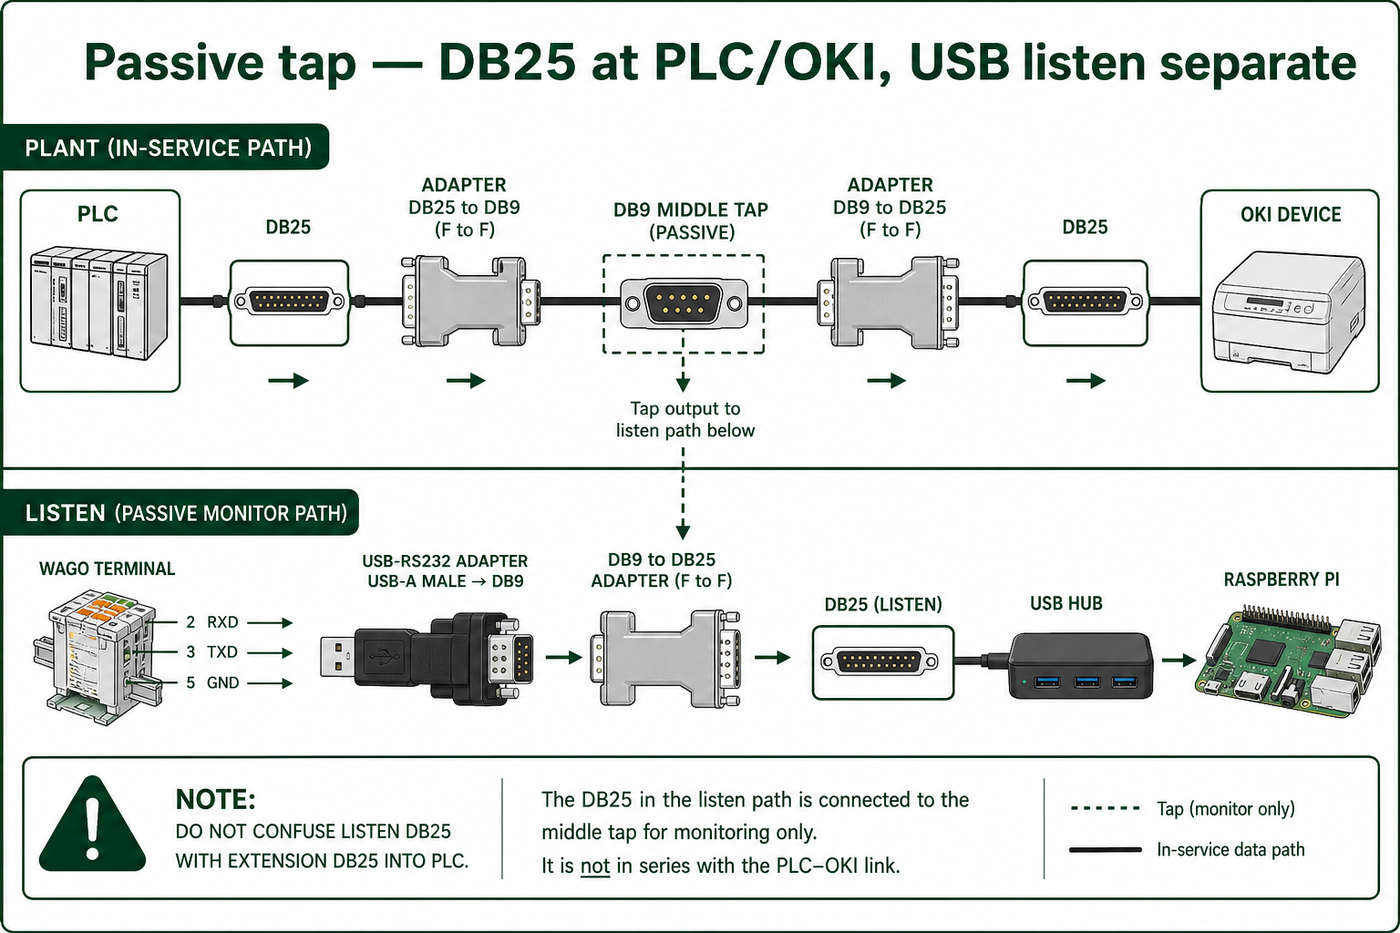
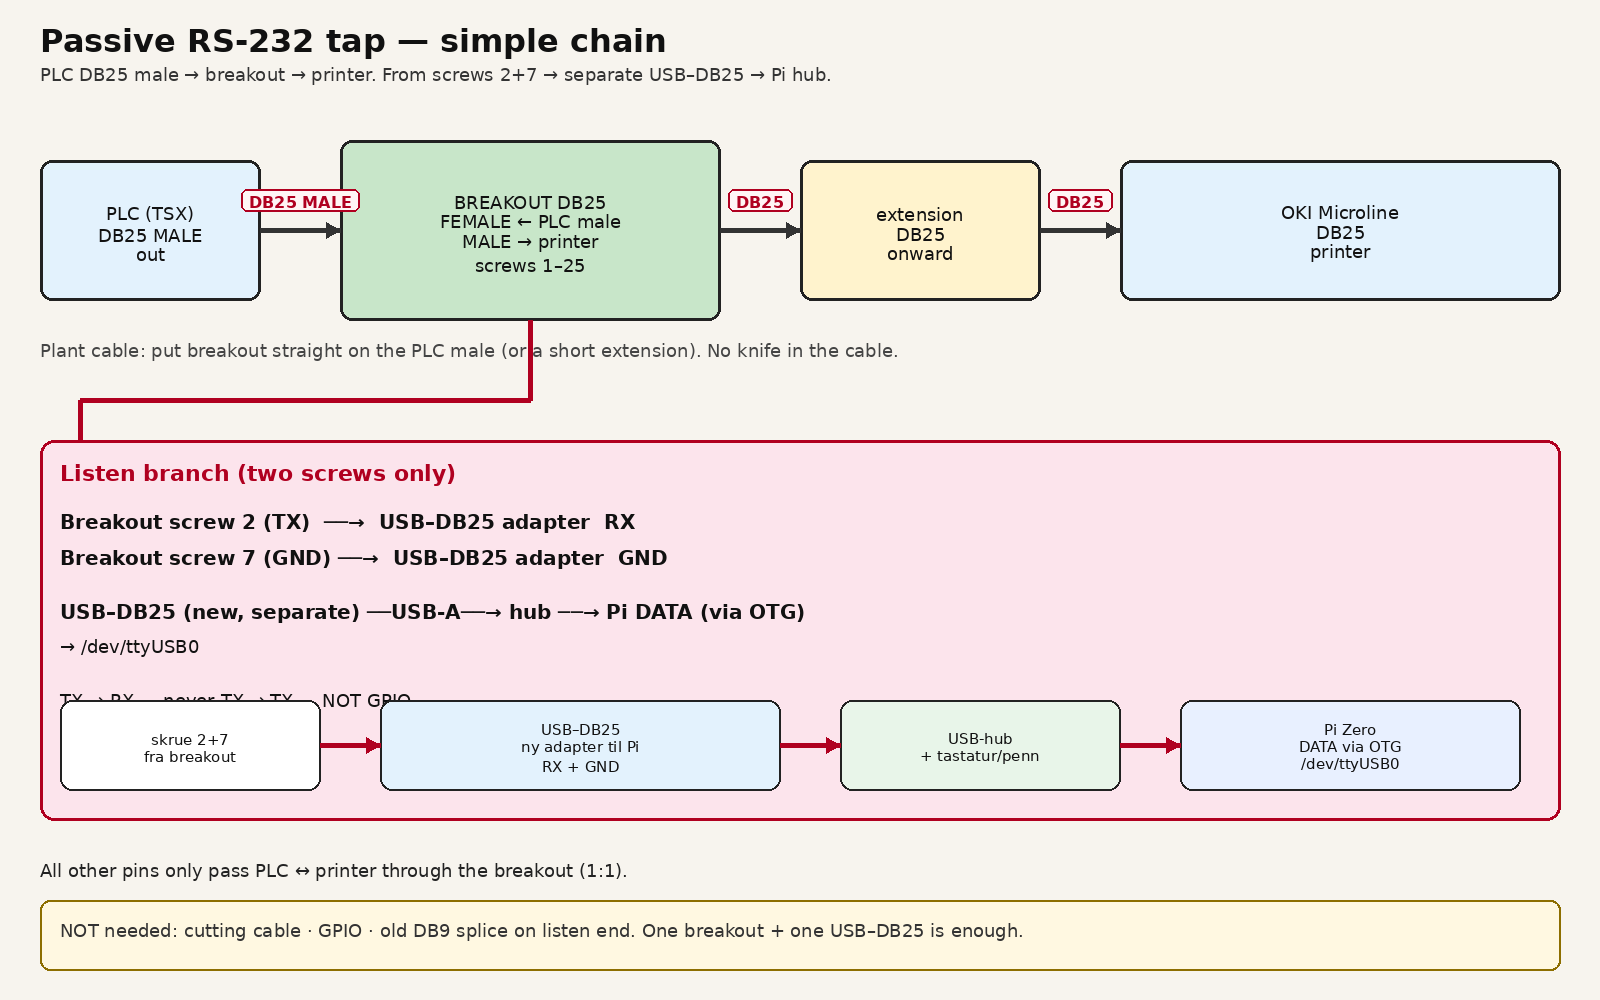
Forenkle tapp-diagram: PLS hann → breakout → skriver + USB–DB25
Ny oversikt uten DB9-rot: skrue 2+7 til egen USB–DB25 på huben.

diff --git a/docs/en/wiring.md b/docs/en/wiring.md
@@ -1,87 +1,53 @@
 # Wiring
 
-<img src="img/tap-recommended-breakout.png" width="100%" alt="Recommended tap with DB25 breakout — no cutting"/>
+<img src="img/passive-rs232-tap.png" width="100%" alt="PLC DB25 male → breakout → printer; screws 2+7 → USB–DB25 → Pi"/>
 
-<img src="img/tap-step-by-step.png" width="100%" alt="Step-by-step: method A breakout / method B WAGO"/>
+## Simple chain (recommended)
 
-## Recommendation: buy a breakout — don’t cut
+1. **PLC DB25 male** plugs straight into the **breakout** (female side).
+2. From breakout **male** → extension → **OKI**.
+3. From breakout **screw 2 (TX)** and **screw 7 (GND)** → new **USB–DB25** adapter (**RX** + **GND**).
+4. USB–DB25 → **USB hub** → Pi DATA (via OTG).
 
-| | Method A (recommended) | Method B (works) |
-|--|------------------------|------------------|
-| Part | **DB25 male↔female breakout** with screw terminals | Short sacrificial extension + **WAGO 221** |
-| Work | Insert board inline | Slit jacket, cut only TX+GND |
-| Reversible | Yes — unplug the board | Messier |
-| Find TX/GND | Labeled **pin 2** and **pin 7** on the board | Continuity test (colors lie) |
-| Search | `DB25 male female breakout screw terminal` | — |
+No cutting. Not GPIO. Signal → `/dev/ttyUSB0`.
 
-Buy two breakouts if you can (one live, one spare). Cheap AliExpress/Amazon units are fine in a cabinet; DIN-rail (e.g. Winford) if you want tougher hardware.
-
-**Not** GPIO. **Not** parallel/Centronics (STROBE/D0…). **Not** a 40-pin LCD HAT. Signal goes to `/dev/ttyUSB0` via USB–RS232.
-
-## What you have
-
-| Part | Connector |
-|------|-----------|
-| PLC and OKI | **DB25** |
-| Extension (middle) | Often a **DB9** cable with **DB25 adapters** on each end |
-| Pi OTG extension | micro-USB **male** into Pi DATA → USB-A **female** out |
-| USB hub | its USB-A **male** cable into the OTG female |
-| StarTech / DB9 cable | USB-A **male** into hub → DB9 **male** + **DB9→DB25 adapter** → DB25 **male** |
-
-| Signal | DB25 (PLC/OKI / breakout) | DB9 (if middle section) |
-|--------|---------------------------|-------------------------|
-| TX (data PLC→printer) | **2** | **3** |
-| GND | **7** | **5** |
-
-## Method A — breakout (recommended)
-
-1. Insert a **DB25 M↔F breakout** between PLC cable and OKI (or mid short sacrificial extension). Original cable untouched.
-2. All pins pass through 1:1.
-3. From **screw 2 (TX)** → wire to listen adapter **RX**.
-4. From **screw 7 (GND)** → wire to listen adapter **GND**.
-5. Secure in cable tray. Label ACTIVE.
-
-## Method B — WAGO (if you won’t order)
-
-**Wire colors — do not trust them.** Continuity from DB25 pins **2** and **7**.
-
-1. Insert a short **sacrificial extension**. Never cut the original PLC→OKI cable.
-2. Slit the jacket mid-extension — **do not cut the whole cable through**.
-3. Cut **only** TX + GND. Three ends in each WAGO 221: PLC | OKI | Pi branch.
-4. Pi branch: TX → RX, GND → GND.
-
-```
-PLC side ──┐
-           ├── WAGO ── printer side
-Pi branch ─┘
-```
-
-## USB–RS232 (separate branch)
-
-<img src="img/usb-chain-complete.png" width="100%" alt="USB chain with correct genders"/>
-
-```text
-Pi DATA ── micro-USB MALE ── OTG extension ── USB-A FEMALE
-                                                    ↑
-                              hub USB-A MALE ───────┘
-                                    │
-                         ├── keyboard
-                         ├── flash → /media/usb0
-                         └── StarTech / DB9 cable:
-                               USB-A MALE into hub
-                               → DB9 MALE
-                               → DB9→DB25 adapter
-                               → DB25 MALE → breakout/WAGO listen
-                               → /dev/ttyUSB0
-```
-
-| From tap (breakout/WAGO) | To StarTech (serial end) |
-|--------------------------|--------------------------|
-| TX (DB25 pin 2) | **RX** |
-| GND (DB25 pin 7) | **GND** |
+| From breakout | To USB–DB25 |
+|---------------|-------------|
+| Screw **2** (TX) | **RX** |
+| Screw **7** (GND) | **GND** |
 
 TX → RX — never TX to TX.
 
-Older overview (WAGO-focused): [passive-rs232-tap.png](img/passive-rs232-tap.png)
+## Parts
+
+| Part | Role |
+|------|------|
+| **DB25 M↔F breakout** w/ screws | Pass-through PLC↔printer + tap point |
+| **USB–DB25** (new, for Pi) | RS-232 levels → USB on the hub |
+| DB25 extension | Breakout → OKI |
+| Pi OTG | micro-USB **male** → USB-A **female** |
+| USB hub | male into OTG; keyboard + stick + USB–DB25 |
+
+If you already have StarTech ICUSB232DB25 (DB9 + DB25 adapter), it fills the USB–DB25 role.
+
+## USB to Pi
+
+<img src="img/usb-chain-complete.png" width="100%" alt="USB chain"/>
+
+```text
+Pi DATA ── OTG (USB-A FEMALE) ← hub (USB-A MALE)
+                              ├── keyboard
+                              ├── flash → /media/usb0
+                              └── USB–DB25 → /dev/ttyUSB0
+                                    ↑
+                         breakout screws 2+7 (TX→RX, GND)
+```
+
+PWR IN (corner): 5V / ≥2.5 A. Not the DATA port.
+
+## More detail
+
+- Steps A/B (breakout vs WAGO): [tap-step-by-step.png](img/tap-step-by-step.png)
+- Breakout focus: [tap-recommended-breakout.png](img/tap-recommended-breakout.png)
 
 *Norwegian: [docs/no/wiring.md](../no/wiring.md)*

diff --git a/docs/no/wiring.md b/docs/no/wiring.md
@@ -1,87 +1,53 @@
 # Kobling
 
-<img src="img/tapp-anbefalt-breakout.png" width="100%" alt="Anbefalt tapp med DB25 breakout — uten å klippe"/>
+<img src="img/passiv-rs232-tapp.png" width="100%" alt="PLS DB25 hann → breakout → skriver; skrue 2+7 → USB–DB25 → Pi"/>
 
-<img src="img/tapp-steg-for-steg.png" width="100%" alt="Steg-for-steg: metode A breakout / metode B WAGO"/>
+## Enkel kjede (anbefalt)
 
-## Anbefaling: kjøp breakout — ikke klipp
+1. **PLS DB25 hann** går rett inn i **breakout** (hunn-siden).
+2. Fra breakout **hann** → skjøtekabel → **OKI**.
+3. Fra breakout **skrue 2 (TX)** og **skrue 7 (GND)** → ny **USB–DB25**-adapter (**RX** + **GND**).
+4. USB–DB25 → **USB-hub** → Pi DATA (via OTG-skjøtekabel).
 
-| | Metode A (anbefalt) | Metode B (fungerer) |
-|--|---------------------|---------------------|
-| Del | **DB25 hann↔hunn breakout** med skrueterminaler | Kort offer-skjøt + **WAGO 221** |
-| Inngrep | Sett boardet inn i skjøten | Åpne kappe, klipp kun TX+GND |
-| Reversibelt | Ja — trekk ut boardet | Mindre pent |
-| Finn TX/GND | Merkt **pin 2** og **pin 7** på boardet | Pipetest (farger lyver) |
-| Søk | `DB25 male female breakout screw terminal` | — |
+Ingen kniv i kabel. Ikke GPIO. Signal → `/dev/ttyUSB0`.
 
-Kjøp gjerne to breakouts (én i drift, én reservedel). Billige AliExpress/Amazon-varianter holder i skap; DIN-rail (f.eks. Winford) hvis du vil ha mer industrielt.
-
-**Ikke** GPIO. **Ikke** parallellport (STROBE/D0…). **Ikke** 40-pinners LCD-HAT. Signal går til `/dev/ttyUSB0` via USB–RS232.
-
-## Hva du har
-
-| Del | Kontakt |
-|-----|---------|
-| PLS og OKI | **DB25** |
-| Skjøtekabel (midt) | Ofte **DB9**-kabel med **DB25-adapter** i hver ende |
-| Pi OTG-skjøtekabel | micro-USB **hann** inn i Pi DATA → USB-A **hunn** ute |
-| USB-hub | egen USB-A **hann**-kabel inn i OTG-hunnen |
-| StarTech / DB9-kabel | USB-A **hann** inn i hubben → DB9 **hann** + **DB9→DB25-adapter** → DB25 **hann** |
-
-| Signal | DB25 (PLS/OKI / breakout) | DB9 (hvis midtseksjon) |
-|--------|---------------------------|------------------------|
-| TX (data PLS→skriver) | **2** | **3** |
-| GND | **7** | **5** |
-
-## Metode A — breakout (anbefalt)
-
-1. Sett **DB25 M↔F breakout** inn mellom PLS-kabel og OKI (eller midt i kort offer-skjøt). Originalkabel urørt.
-2. Alle pinner går 1:1 gjennom boardet.
-3. Fra **skrue 2 (TX)** → ledning til lytteadapterens **RX**.
-4. Fra **skrue 7 (GND)** → ledning til lytteadapterens **GND**.
-5. Fest i kabelrenne. Merk «AKTIV».
-
-## Metode B — WAGO (hvis du ikke bestiller)
-
-**Farger — ikke stol på dem.** Pipetest fra DB25-pinne **2** og **7**.
-
-1. Sett inn kort **offer-skjøt**. Original PLS→OKI røres aldri.
-2. Åpne kappen midt på skjøten — **klipp ikke hele kabelen over**.
-3. Klipp **kun** TX + GND. Tre ender i hver WAGO 221: PLS | OKI | Pi-gren.
-4. Pi-gren: TX → RX, GND → GND.
-
-```
-PLS-side ──┐
-           ├── WAGO ── skriver-side
-Pi-gren ───┘
-```
-
-## USB–RS232 (egen grein)
-
-<img src="img/usb-kjede-komplett.png" width="100%" alt="USB-kjede med riktige kjønn"/>
-
-```text
-Pi DATA ── micro-USB HANN ── OTG-skjøtekabel ── USB-A HUNN
-                                                    ↑
-                              hubens USB-A HANN ────┘
-                                    │
-                         ├── tastatur
-                         ├── USB-pinne → /media/usb0
-                         └── StarTech / DB9-kabel:
-                               USB-A HANN inn i hub
-                               → DB9 HANN
-                               → DB9→DB25-adapter
-                               → DB25 HANN → breakout/WAGO-lytting
-                               → /dev/ttyUSB0
-```
-
-| Fra tapp (breakout/WAGO) | Til StarTech (serie-ende) |
-|--------------------------|---------------------------|
-| TX (DB25 pin 2) | **RX** |
-| GND (DB25 pin 7) | **GND** |
+| Fra breakout | Til USB–DB25 |
+|--------------|--------------|
+| Skrue **2** (TX) | **RX** |
+| Skrue **7** (GND) | **GND** |
 
 TX → RX — aldri TX til TX.
 
-Eldre oversiktstegning (WAGO-fokus): [passiv-rs232-tapp.png](img/passiv-rs232-tapp.png)
+## Deler
+
+| Del | Rolle |
+|-----|--------|
+| **DB25 M↔F breakout** m/skruer | Pass-through PLS↔skriver + tapppunkt |
+| **USB–DB25** (ny, til Pi) | RS-232-nivå → USB på huben |
+| Skjøtekabel DB25 | Breakout → OKI |
+| Pi OTG | micro-USB **hann** → USB-A **hunn** |
+| USB-hub | hann inn i OTG; tastatur + penn + USB–DB25 |
+
+Har du allerede StarTech ICUSB232DB25 (DB9 + DB25-adapter), kan den brukes som USB–DB25 — samme rolle.
+
+## USB til Pi
+
+<img src="img/usb-kjede-komplett.png" width="100%" alt="USB-kjede"/>
+
+```text
+Pi DATA ── OTG (USB-A HUNN) ← hub (USB-A HANN)
+                              ├── tastatur
+                              ├── minnepenn → /media/usb0
+                              └── USB–DB25 → /dev/ttyUSB0
+                                    ↑
+                         breakout skrue 2+7 (TX→RX, GND)
+```
+
+PWR IN (hjørne): 5V / ≥2,5 A. Ikke DATA-porten.
+
+## Mer detalj
+
+- Steg A/B (breakout vs WAGO): [tapp-steg-for-steg.png](img/tapp-steg-for-steg.png)
+- Breakout-fokus: [tapp-anbefalt-breakout.png](img/tapp-anbefalt-breakout.png)
 
 *English: [docs/en/wiring.md](../en/wiring.md)*
